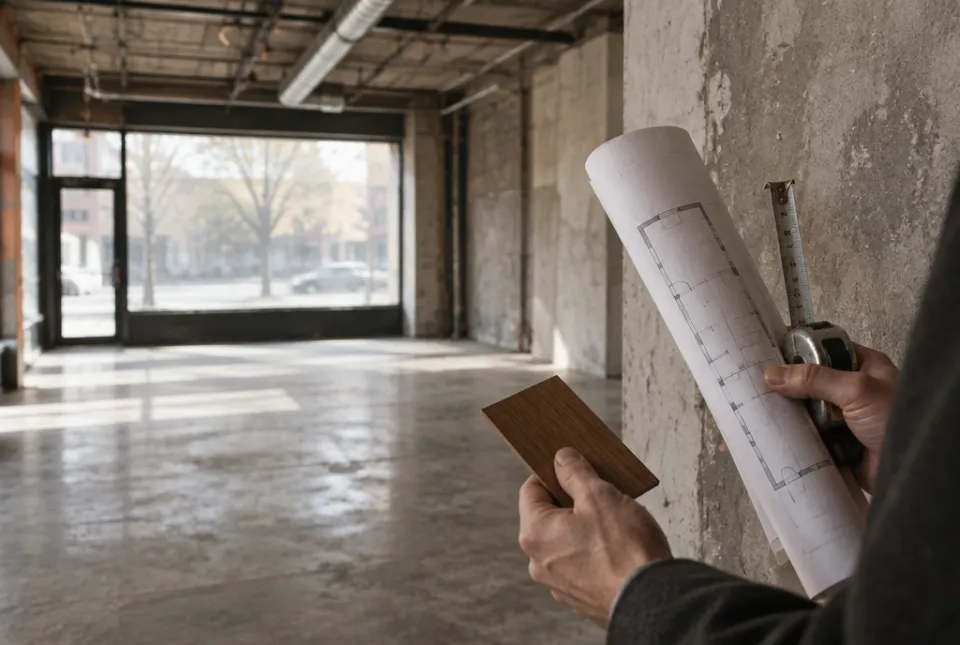
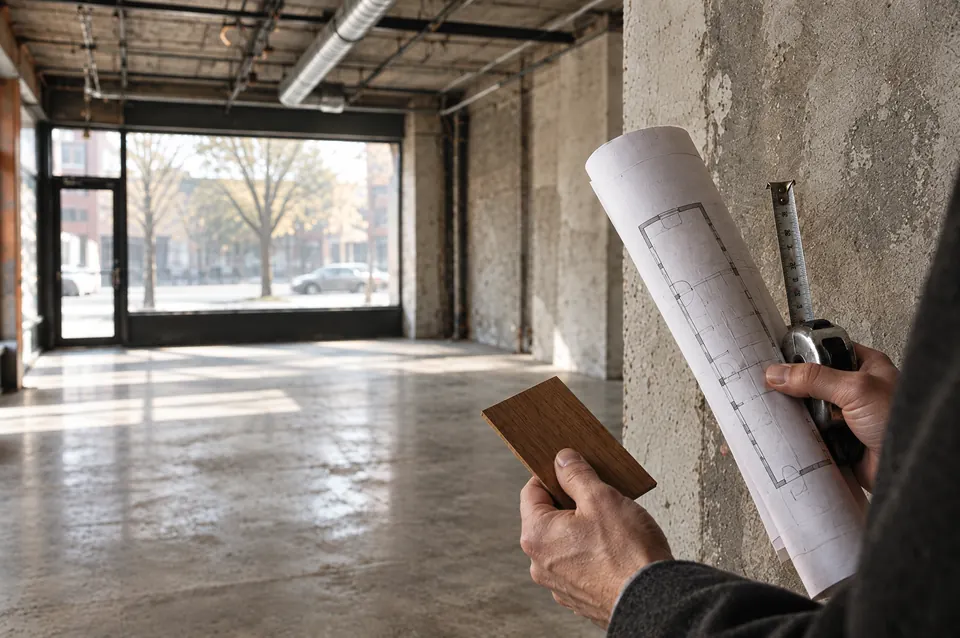
feat: FAQ 현장 사진을 같은 구도 고화질 2K로 다시 만들어 교체 — 1024px 저화질 원본이 흐려서, 960/1600 srcSet

diff --git a/app/page.tsx b/app/page.tsx
@@ -101,10 +101,12 @@ export default function HomePage() {
             </Reveal>
             {/* 빈 상가에서 도면·줄자를 든 손 — 질문이 생기는 자리(계약 전 현장) */}
             <div className="mt-10 overflow-hidden rounded-[1.25rem] bg-secondary">
+              {/* 레티나에서 표시 폭(최대 490px)의 두세 배를 쓰므로 1600 판까지 둔다 */}
               {/* eslint-disable-next-line @next/next/no-img-element */}
-              {/* 원본이 1024px라 960 한 장만 (표시 폭은 최대 490px) */}
               <img
-                src="/home/faq-site-960.webp"
+                src="/home/faq-site-1600.webp"
+                srcSet="/home/faq-site-960.webp 960w, /home/faq-site-1600.webp 1600w"
+                sizes="(min-width: 1024px) 490px, 100vw"
                 alt="공사 전 빈 상가에서 도면과 줄자를 든 손"
                 loading="lazy"
                 className="aspect-[3/2] w-full object-cover lg:aspect-[4/5]"
